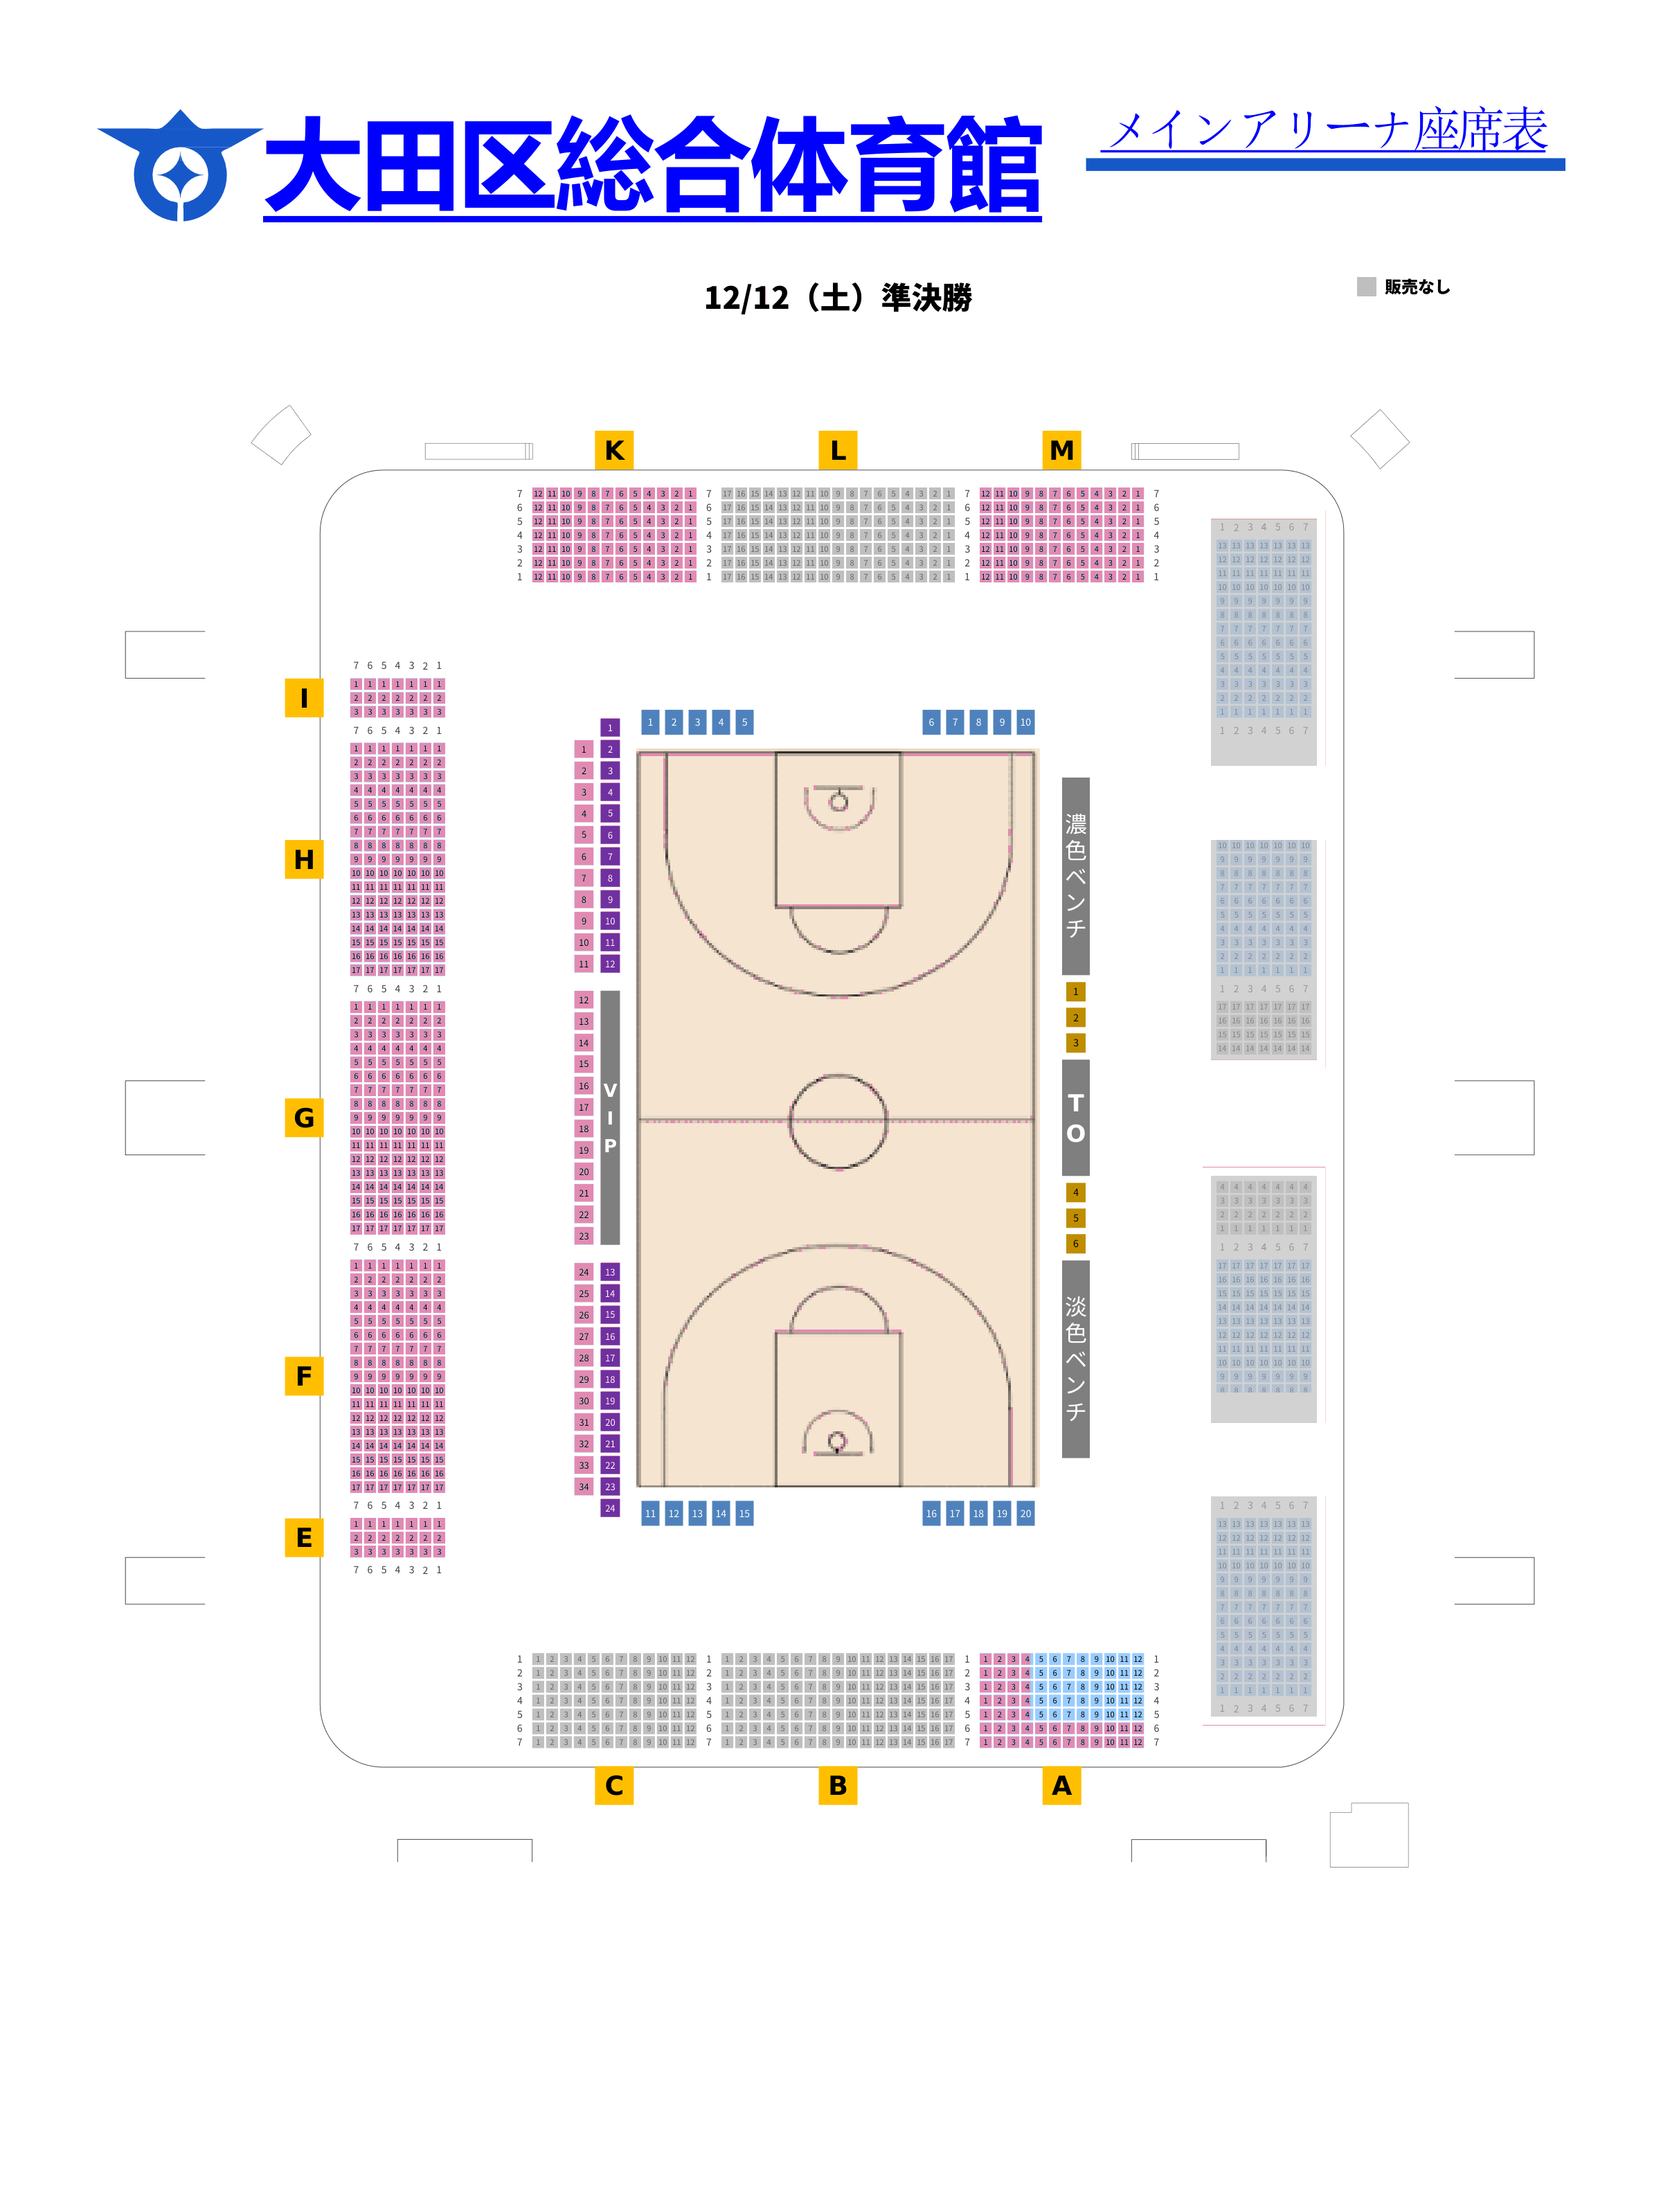
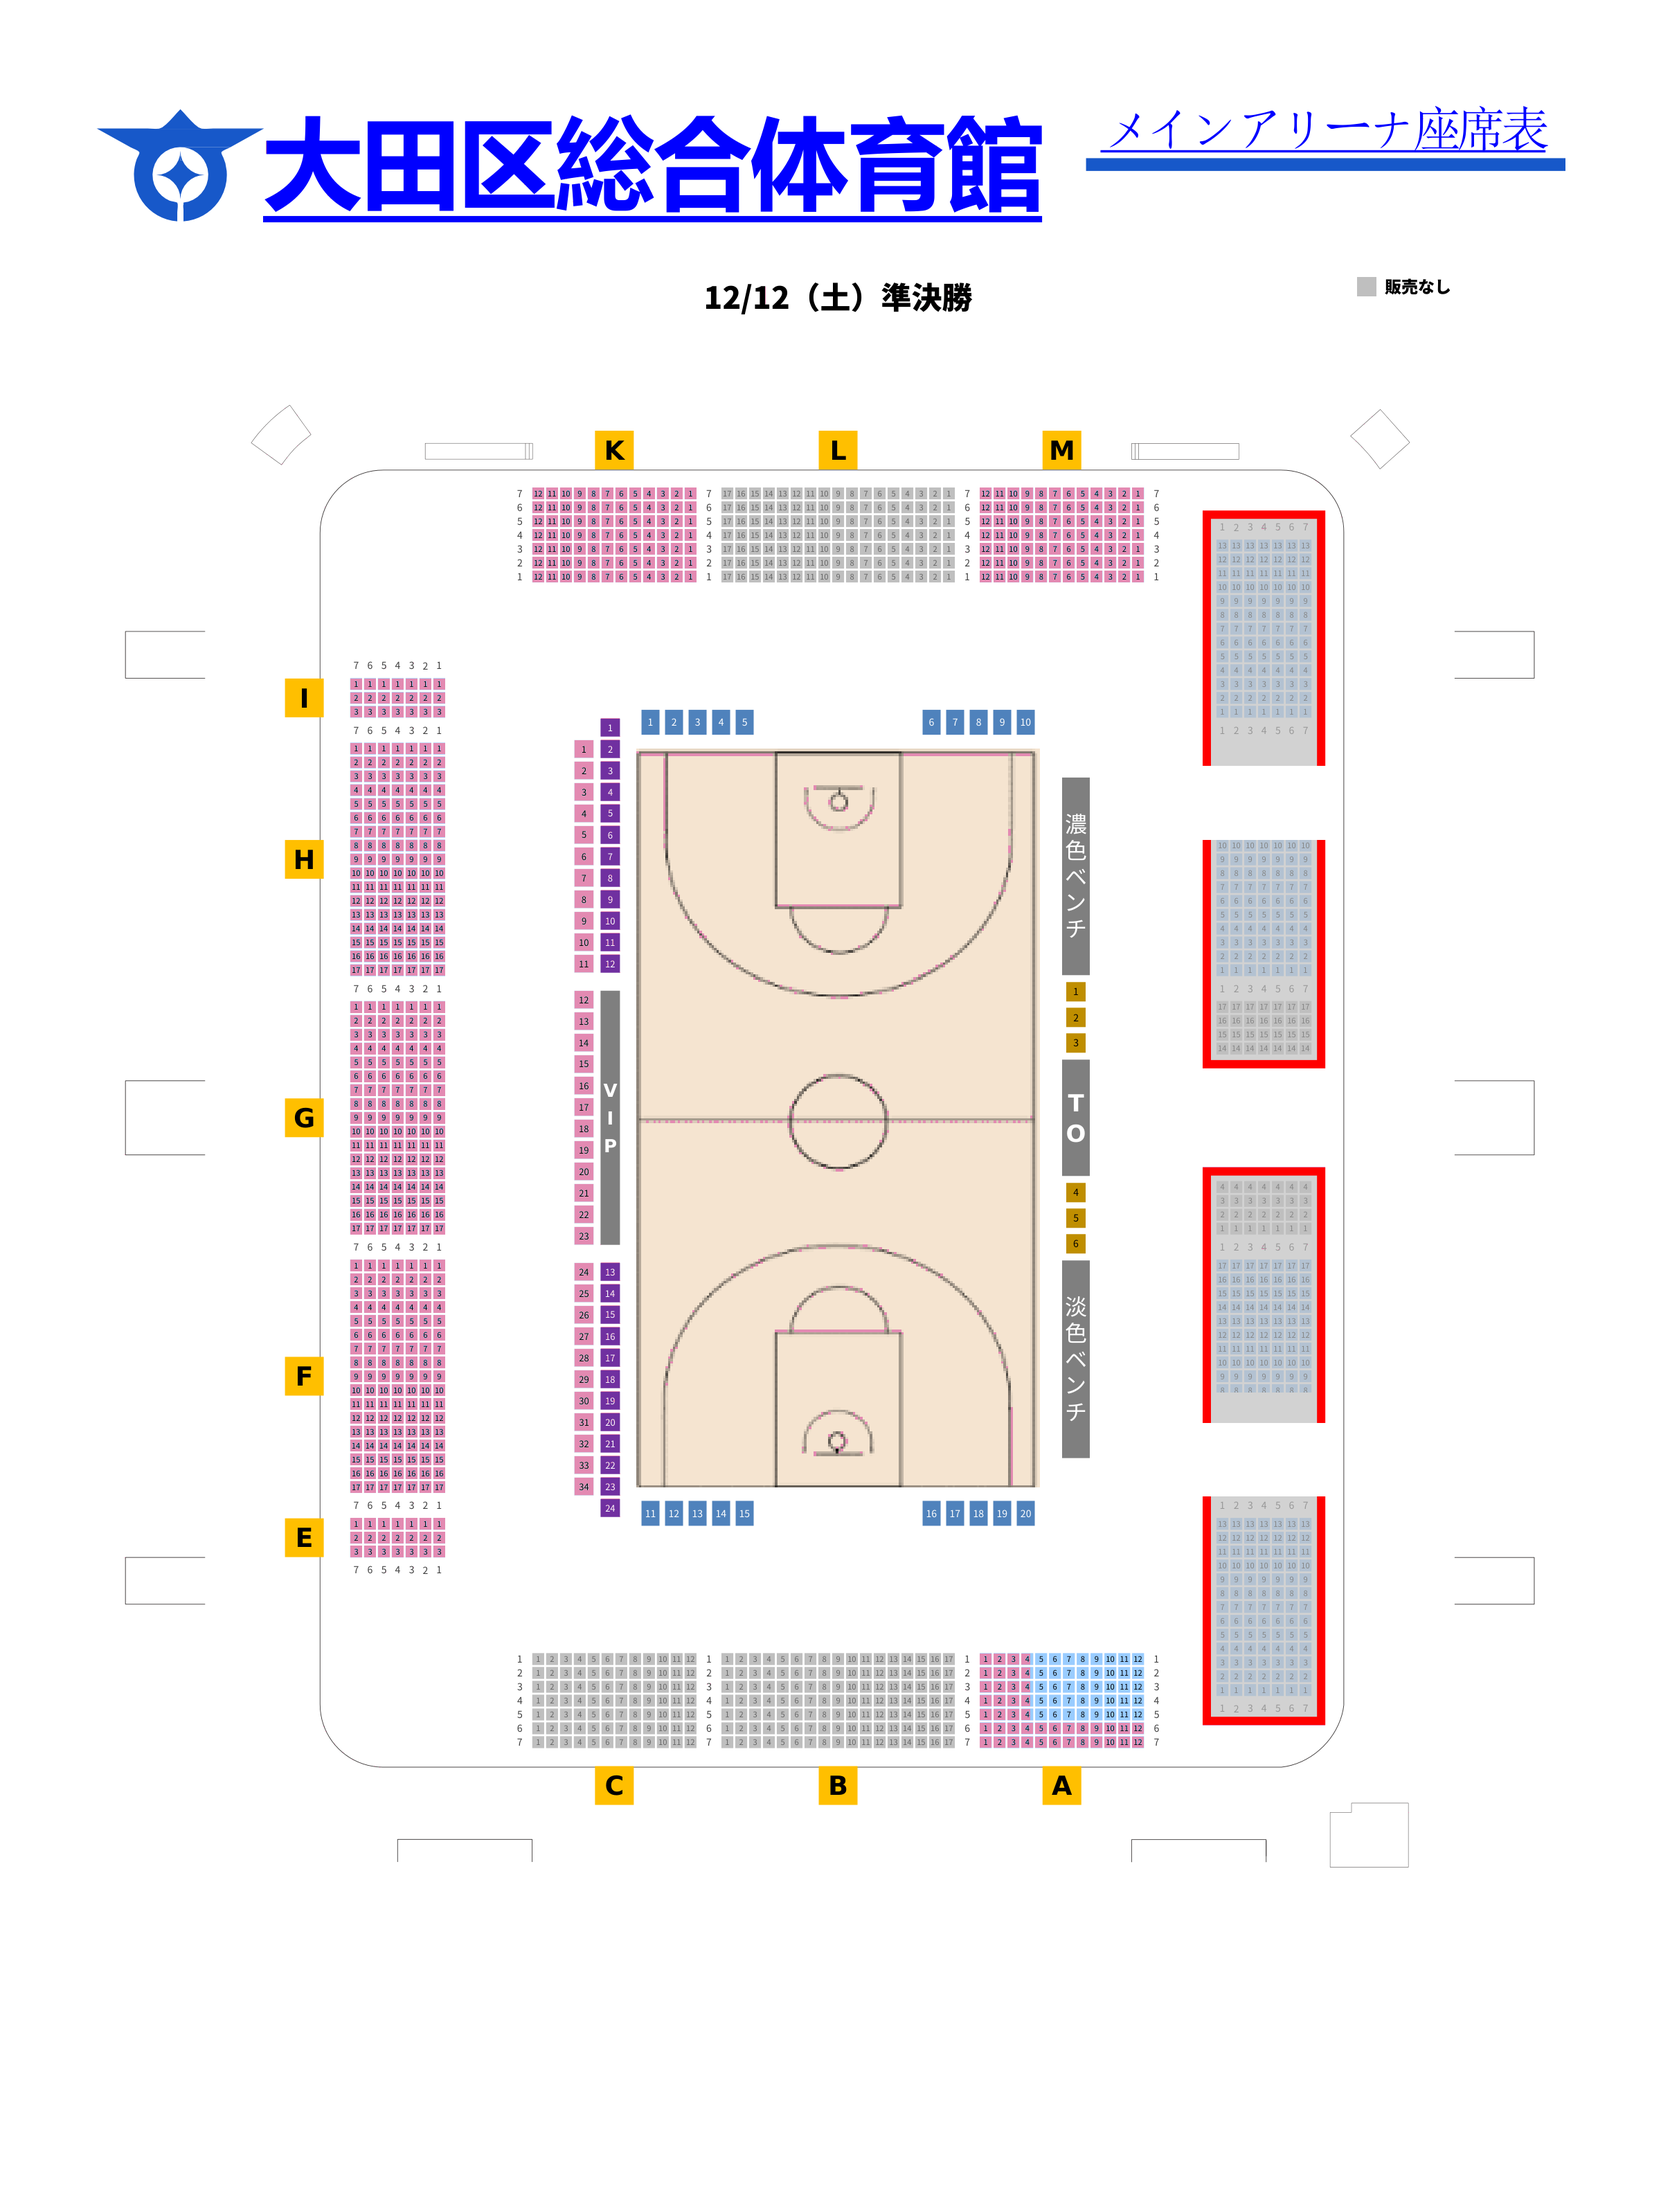
図面上の枠を外し、崩れる前の会場図に戻す

diff --git a/src/components/SeatMap.tsx b/src/components/SeatMap.tsx
@@ -1,13 +1,4 @@
-import { useCallback, useEffect, useMemo, useRef, useState } from 'react'
-import { INCARE_LABELS } from '../lib/incarePalette'
-import {
-  mergeOptionsForOverlay,
-  mergeSeatRectsByZone,
-  overlayLabel,
-  nonSellableZonesForEvent,
-  nonSellableZoneStyle,
-  seatsForNonSellableOverlay,
-} from '../lib/nonSellableRegions'
+import { useCallback, useEffect, useRef, useState } from 'react'
 import { isSeatSellable, isSold, seatOverlayClass } from '../lib/seatStatus'
 import type { SeatWithState, VenueEvent } from '../types'
 
@@ -143,26 +134,12 @@ export function SeatMap({
   const bgSrc =
     event.background_path ?? `/backgrounds/${event.slug}.png`
 
-  const nonSellableRegions = useMemo(() => {
-    const zones = nonSellableZonesForEvent(event.slug)
-    return zones.flatMap((zone) => {
-      const subset = seatsForNonSellableOverlay(event.slug, zone, seats)
-      const { gap, maxVerticalSep } = mergeOptionsForOverlay(event.slug, zone)
-      return mergeSeatRectsByZone(subset, zone, gap, maxVerticalSep)
-        .filter((rect) => rect.w > 0.01 && rect.h > 0.008)
-        .map((rect) => ({
-          zone,
-          rect,
-          label: overlayLabel(event.slug, zone),
-        }))
-    })
-  }, [event.slug, seats])
-
   return (
     <div className="flex min-h-[50vh] flex-1 flex-col rounded-lg border border-slate-200 bg-white">
-      <p className="border-b border-slate-200 px-3 py-1.5 text-xs text-slate-500">
-        図面の色＝販売区分（{INCARE_LABELS.floor1}＝ピンク / 灰色＝
-        {INCARE_LABELS.floor2}・{INCARE_LABELS.teamTicket}）。凡例を参照。空席は色を重ねません。
+      <p className="border-b border-slate-200 px-3 py-1.5 text-xs text-slate-600">
+        {event.slug === '2025-12-11'
+          ? '駒沢の2階（灰色）は当日販売します。1階（ピンク）は前売り対象です。'
+          : 'ピンクが1階指定席です。図面の上に枠は重ねません。'}
       </p>
       <div className="flex-1 overflow-auto p-2">
         <div
@@ -197,30 +174,6 @@ export function SeatMap({
             )}
 
             <div className="pointer-events-none absolute inset-0">
-              {!moveLayoutMode &&
-                nonSellableRegions.map((region, idx) => {
-                  const style = nonSellableZoneStyle(region.zone)
-                  return (
-                    <div
-                      key={`ns-${region.zone}-${idx}`}
-                      className="absolute box-border border-2 border-dashed bg-transparent"
-                      style={{
-                        left: `${region.rect.x * 100}%`,
-                        top: `${region.rect.y * 100}%`,
-                        width: `${region.rect.w * 100}%`,
-                        height: `${region.rect.h * 100}%`,
-                        borderColor: style.borderColor,
-                      }}
-                    >
-                      {region.label && (
-                        <span className="absolute left-1/2 top-1 z-10 max-w-[96%] -translate-x-1/2 whitespace-nowrap rounded bg-white/95 px-1.5 py-0.5 text-center text-[10px] font-bold leading-none text-slate-800 shadow-sm">
-                          {region.label}
-                        </span>
-                      )}
-                    </div>
-                  )
-                })}
-
               {seats.map((seat) => {
                 const preview = movePreview?.[seat.id]
                 const sx = preview?.x ?? seat.x
